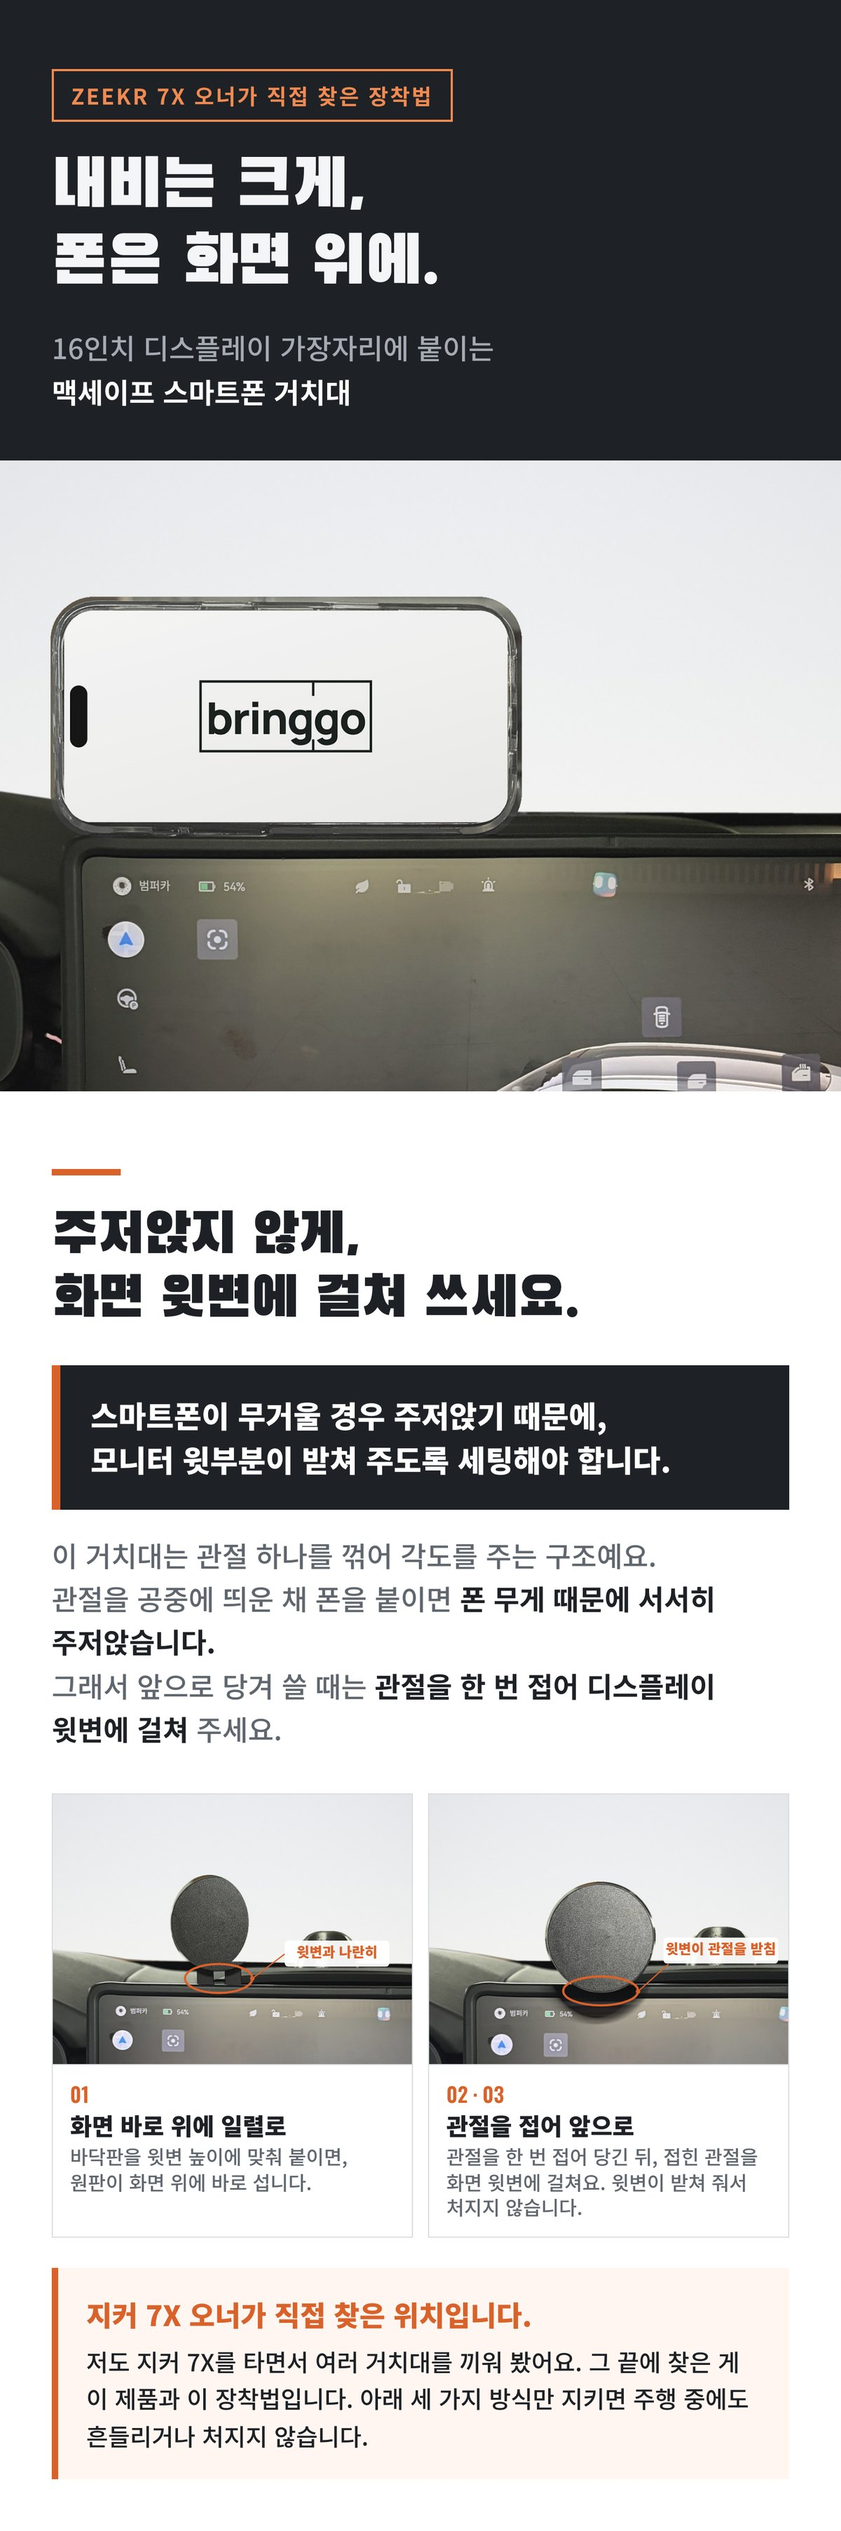
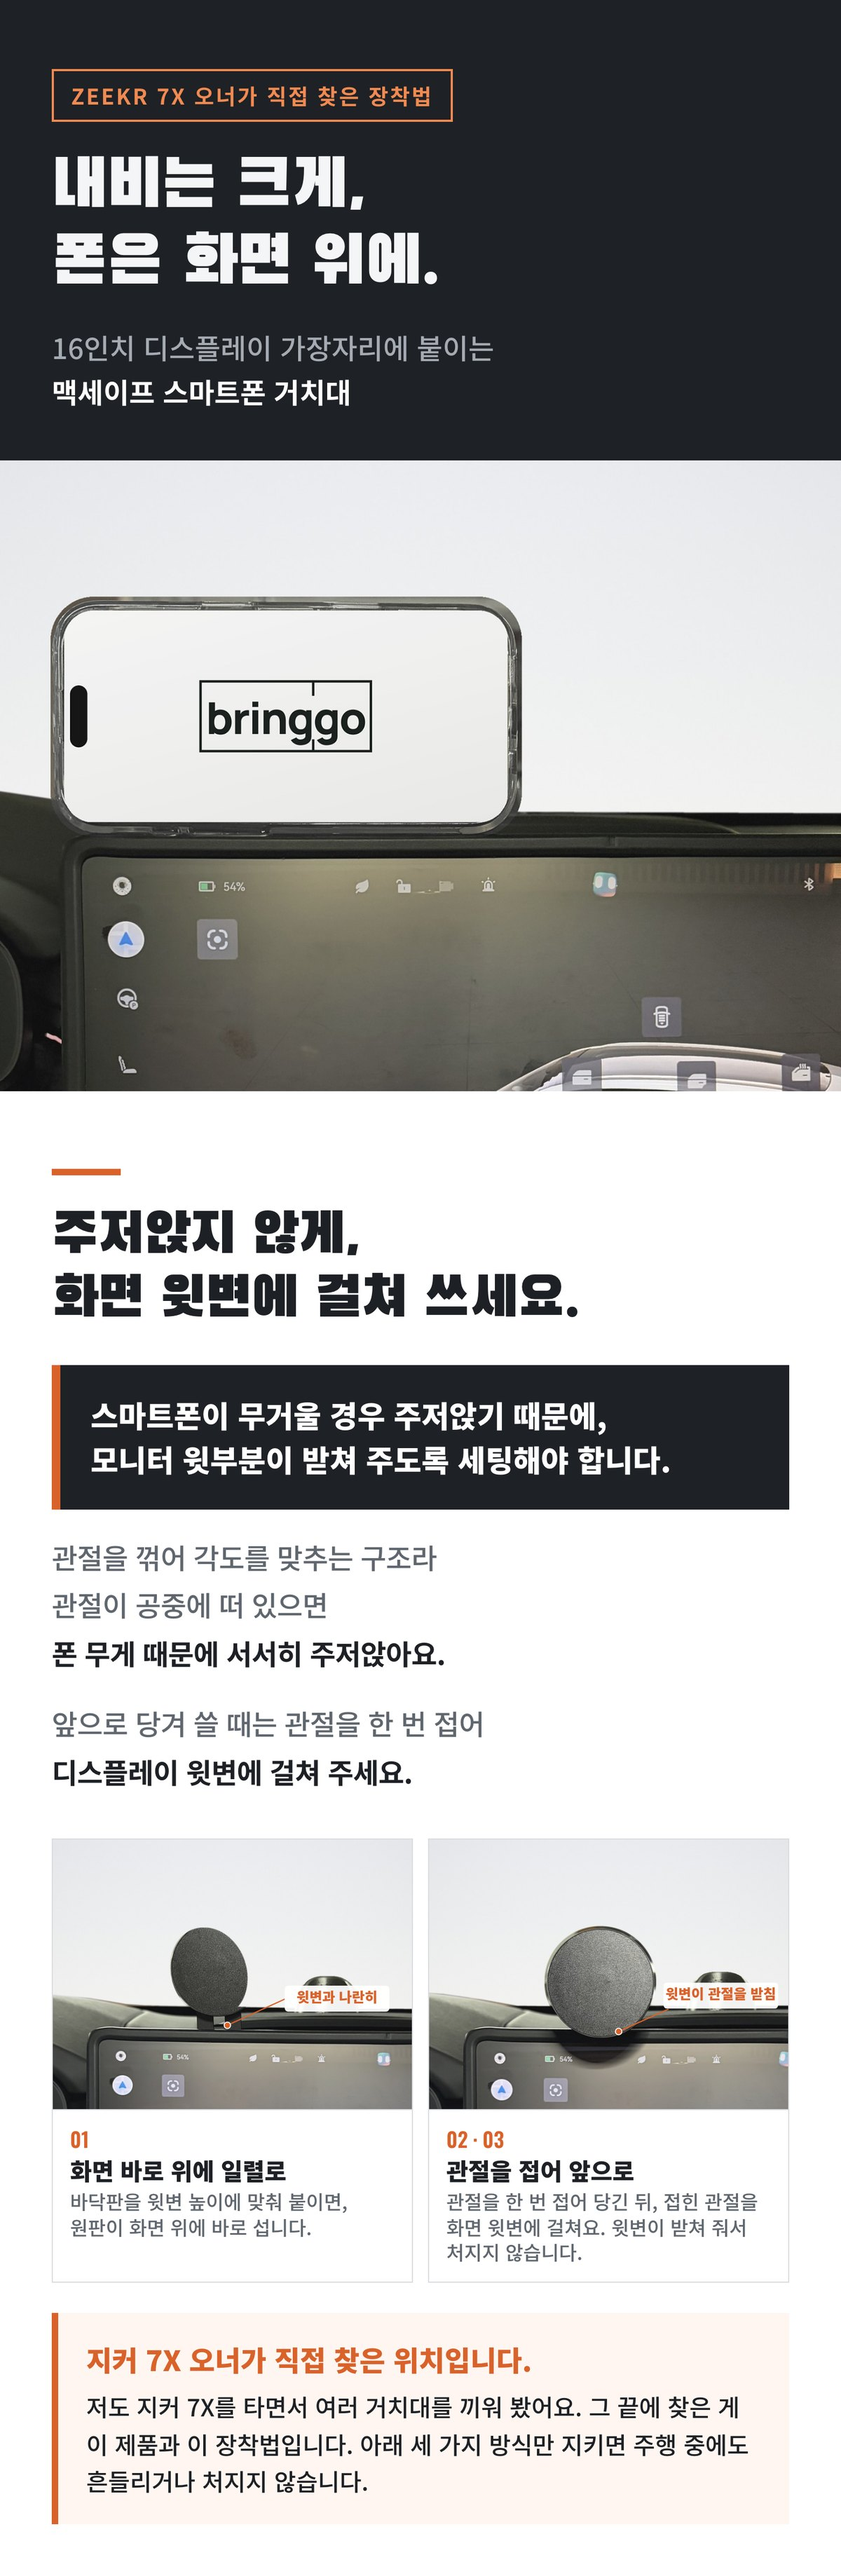
13번 맥세이프 거치대: 화면 속 프로필 이름 제거 · 원판 윤곽 자연스럽게 · 문구 정리 · 접어 두는 법 추가 · 중복 섹션 삭제로 길이 단축

Changed region(s): [[0.0, 0.2171, 1.0, 0.7134], [0.0617, 0.7444, 0.9558, 0.9925], [0.0, 0.031, 1.0, 0.1861]]

diff --git a/shop/config.js b/shop/config.js
@@ -8,6 +8,6 @@ window.SHEET_URL = 'https://docs.google.com/spreadsheets/d/19crq_-szVqdJRlVK12RK
 window.KAKAO_CHANNEL_URL = 'https://pf.kakao.com/_vtvxiX/chat';
 
 // 상품 사진 버전 (사진을 교체하면 숫자를 올려 주세요)
-window.ASSET_V = '10312000';
+window.ASSET_V = '10312100';
 // 토스페이먼츠 클라이언트 키 (공개용 · test_ck_… 또는 live_ck_…). 비어 있으면 카드결제 숨김. 시크릿 키는 절대 여기 넣지 말 것 → Supabase Edge Function Secrets
 window.TOSS_CLIENT_KEY = '';
